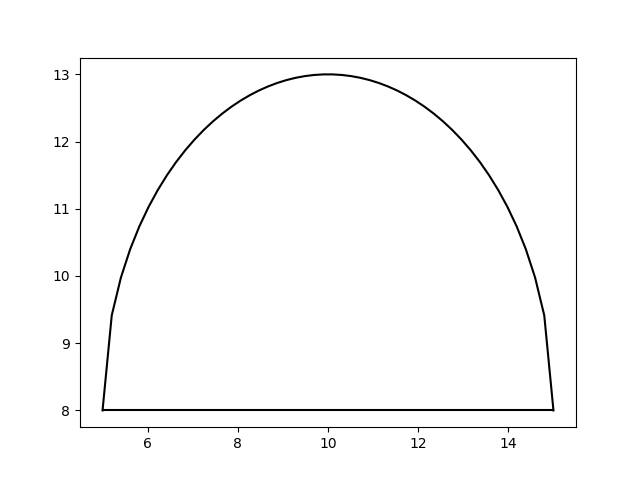
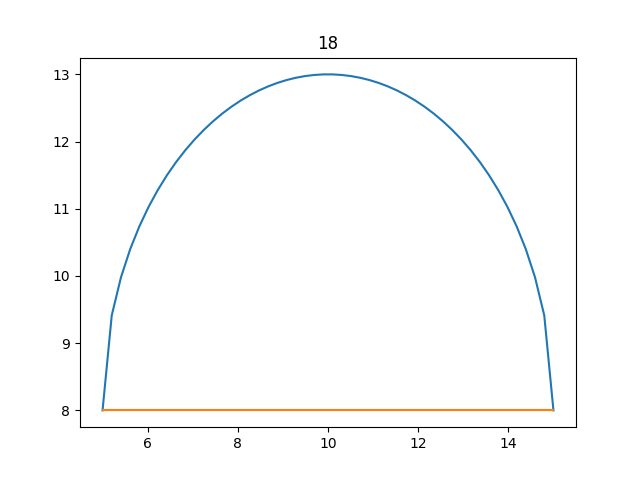
refactoring of 18

diff --git a/HW1/18.py b/HW1/18.py
@@ -3,6 +3,8 @@ import numpy as np
 
 x = np.linspace(5, 15)
 y = 8.0+(25.0-(x-10.0)**2.0)**0.5
-plt.plot(x, y, 'k')
-plt.plot(x, np.linspace(1, 1, len(x))*8, 'k')
+
+plt.title("18")
+plt.plot(x, y)
+plt.plot(x, np.linspace(1, 1, len(x))*8)
 plt.show()
